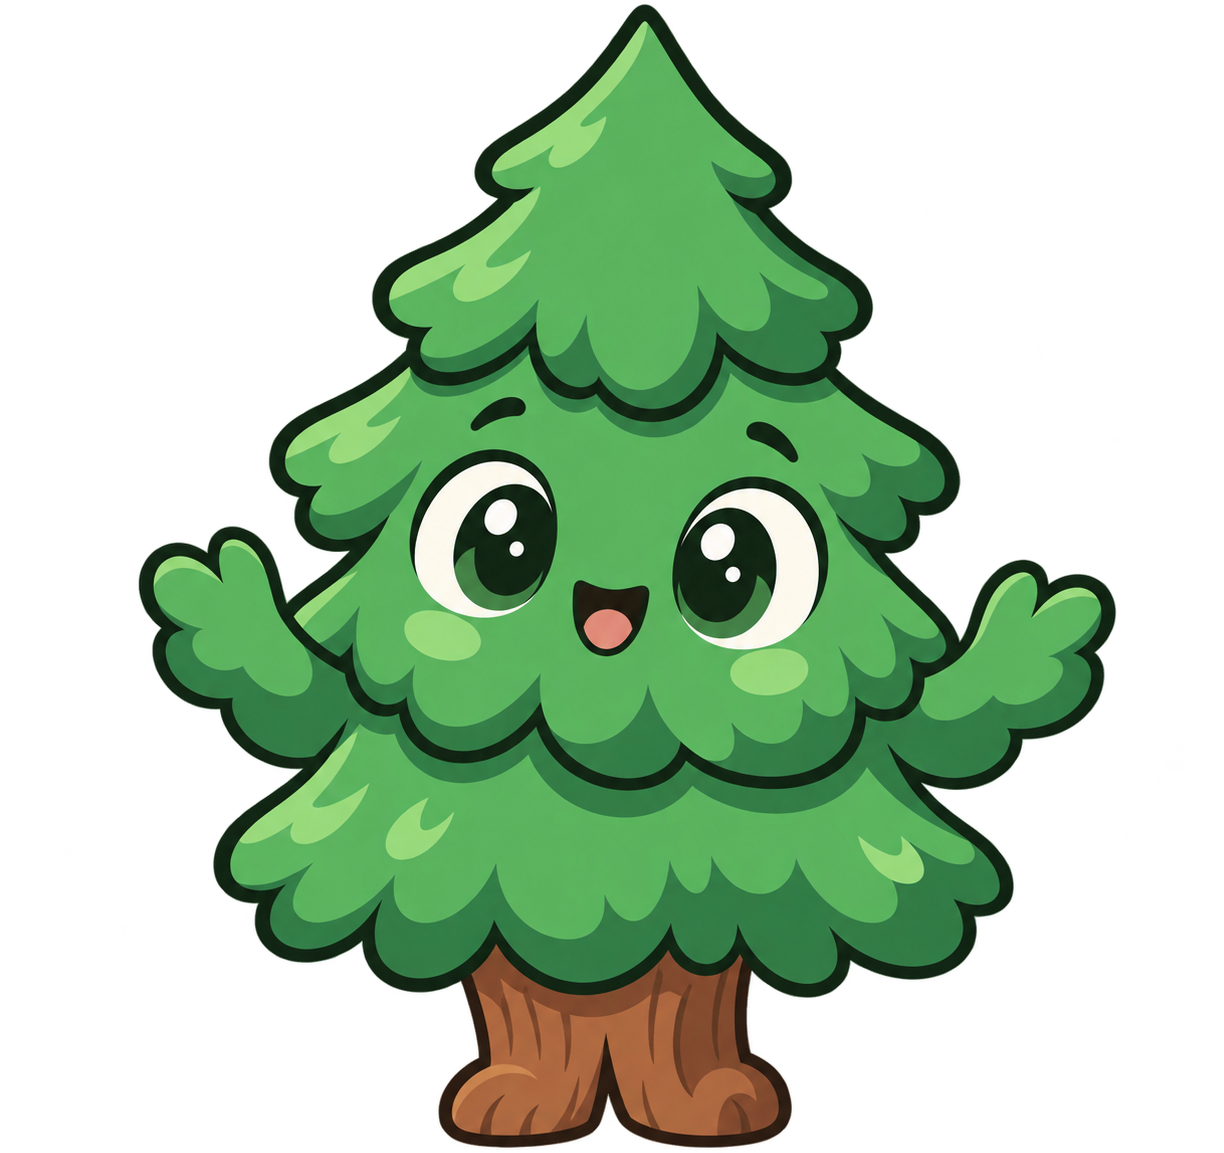
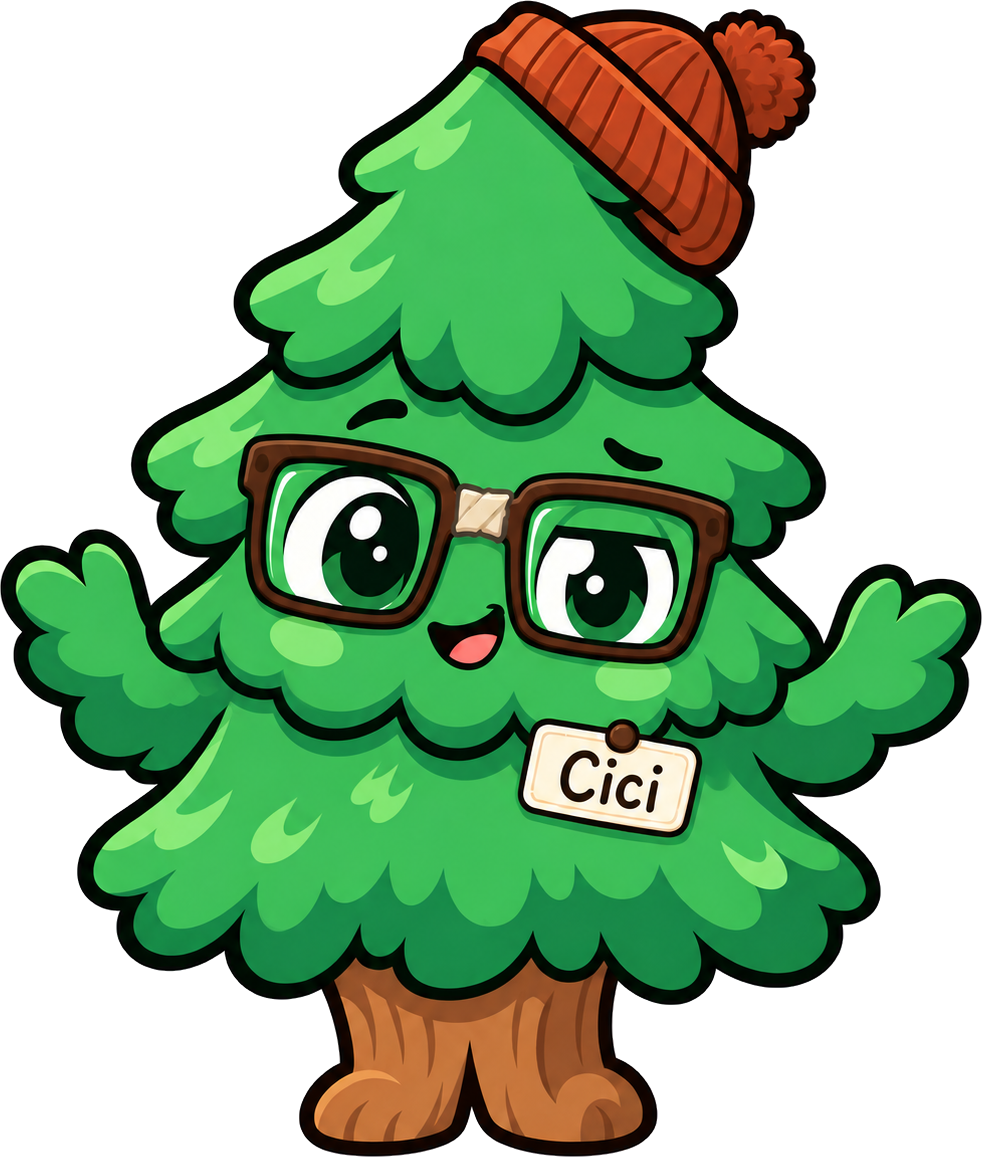
Cici v2, and off the admin login
New drawing: beanie, taped glasses, name tag. It arrived on a solid
cream background, so the background is flood filled from the border and
the cut edge feathered. Her outline is closed all the way round, so the
whites of her eyes and the name tag survive.

She comes off the admin login. That screen is the serious tool and the
wordmark belongs there; she stays on the portal and the guides.

Also drops the "all 21 sites" note on the portal, which has been wrong
since Solar 1 and 2 were switched off.

Claude-Session: https://claude.ai/code/session_018aSbtsQkYrkb3XbDev3kYs

diff --git a/src/components/admin/Logo.tsx b/src/components/admin/Logo.tsx
@@ -1,16 +1,18 @@
 import React from "react";
 
-// The login screen: Cici, then the wordmark, then what this is. The wordmark
-// art is white on transparent (it sits on black photography on the site), so
-// it is inverted here for the admin's light background. Cici is not.
+// The wordmark on the admin login screen, in place of Payload's own. The art
+// is white on transparent (it sits on black photography on the site), so it
+// is inverted here for the admin's light background.
+//
+// Cici is deliberately not here. The admin is the serious tool, and the
+// mascot belongs on the portal and the guides.
 export function Logo() {
   return (
-    <div style={{ display: "grid", placeItems: "center", gap: 14, padding: "0 0 24px" }}>
-      <img src="/cici.png" alt="Cici" style={{ width: 150, height: "auto", objectFit: "contain" }} />
+    <div style={{ display: "grid", placeItems: "center", gap: 10, padding: "8px 0 24px" }}>
       <img
         src="/site-assets/img/White-20Black-20Transparent-20Cropped-4d2f21.png"
         alt="Camp Cedar Creek"
-        style={{ width: 190, height: "auto", objectFit: "contain", filter: "invert(1)" }}
+        style={{ width: 230, height: "auto", objectFit: "contain", filter: "invert(1)" }}
       />
       <span
         style={{
@@ -27,14 +29,16 @@ export function Logo() {
 }
 
 // The small mark in the top-left of the admin chrome, once you are logged in.
-// Payload drops this into .step-nav__home, an 18px box, so it fills whatever
-// box it is given and object-fit keeps her in proportion.
 export function Icon() {
   return (
     <img
-      src="/cici.png"
-      alt="Cici"
-      style={{ width: "100%", height: "100%", objectFit: "contain", display: "block" }}
+      src="/site-assets/img/No-20Words-20Cropped-20Square-5c6cba.png"
+      alt="Camp Cedar Creek"
+      // Payload drops this into .step-nav__home, an 18px box, and its
+      // max-width:100% then squeezed a fixed 26px-wide image to 18 wide while
+      // the inline height held it at 26: an oval. Fill whatever box it is
+      // given instead, and let object-fit keep it round.
+      style={{ width: "100%", height: "100%", objectFit: "contain", display: "block", filter: "invert(1)" }}
     />
   );
 }

diff --git a/src/lib/links.ts b/src/lib/links.ts
@@ -33,7 +33,7 @@ export const LINK_GROUPS: LinkGroup[] = [
     heading: "The site",
     items: [
       { label: "Homepage", href: "/", note: "what a guest lands on" },
-      { label: "Booking site", href: "/sites", note: "all 21 sites, and where a guest books" },
+      { label: "Booking site", href: "/sites", note: "every site, and where a guest books" },
       { label: "Events", href: "/events", note: "the Loft and the grounds" },
     ],
   },
